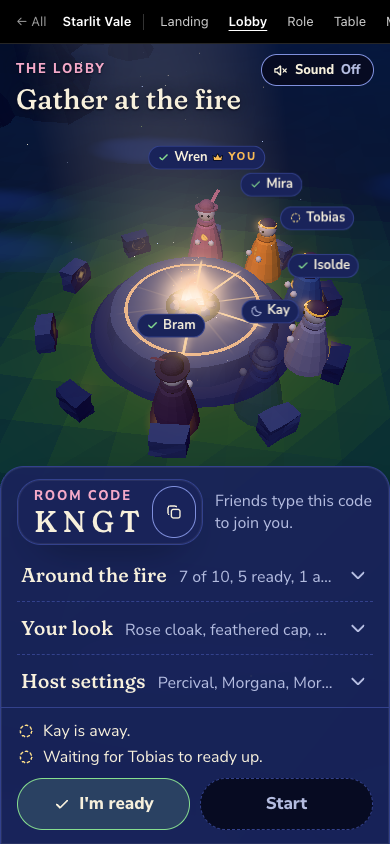
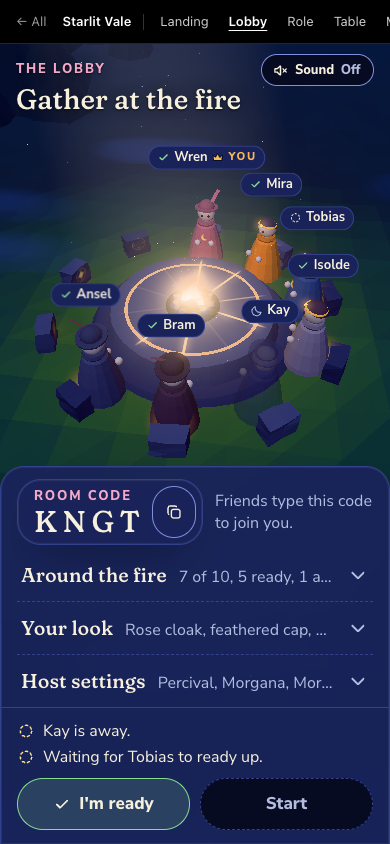
fix(design): your name at the table always matches the lobby
A lobby opened without a name now clears the stored one, so the table
never shows an old name. Re-shoot the lobby evidence: you now always take
your own seat, so Ansel no longer hides inside your figure. Wait for a tag
to show before tapping it in e2e (software WebGL under load is slow).

Claude-Session: https://claude.ai/code/session_017rvMnjyMzxcMV82a8yoRz8

diff --git a/e2e/game.e2e.ts b/e2e/game.e2e.ts
@@ -224,7 +224,10 @@ test("the leader picks the team by tag and by the Team list", async ({
   await expect(bramTag).toHaveAttribute("aria-pressed", "false");
   await expect(bramItem).toHaveAttribute("aria-pressed", "false");
 
-  // A tap on the tag over Bram's head picks him, in the list too.
+  // A tap on the tag over Bram's head picks him, in the list too. The
+  // engine places and shows tags frame by frame, which software WebGL under
+  // load does slowly: wait for it to show.
+  await expect(bramTag).toBeVisible({ timeout: 90_000 });
   await bramTag.click();
   await expect(bramTag).toHaveAttribute("aria-pressed", "true");
   await expect(bramTag).toHaveAttribute("aria-label", "Bram, chosen");

diff --git a/src/routes/design/starlit/-components/lobby/lobby-screen.tsx b/src/routes/design/starlit/-components/lobby/lobby-screen.tsx
@@ -79,9 +79,10 @@ export function LobbyScreen({ via, name, code }: LobbySearch) {
   const isHost = view.you.isHost;
   const hostName = view.players.find((p) => p.isHost)?.name ?? "The host";
   useEveryoneReadyChord(canStart);
-  // The game seats you under the name you typed.
+  // The game seats you under the name you typed (or as Wren, with none, so
+  // the lobby and the table always agree).
   useEffect(() => {
-    if (name) setYourName(name);
+    setYourName(name ?? null);
   }, [name]);
 
   // The table's open space, claimed from the shared stage.
